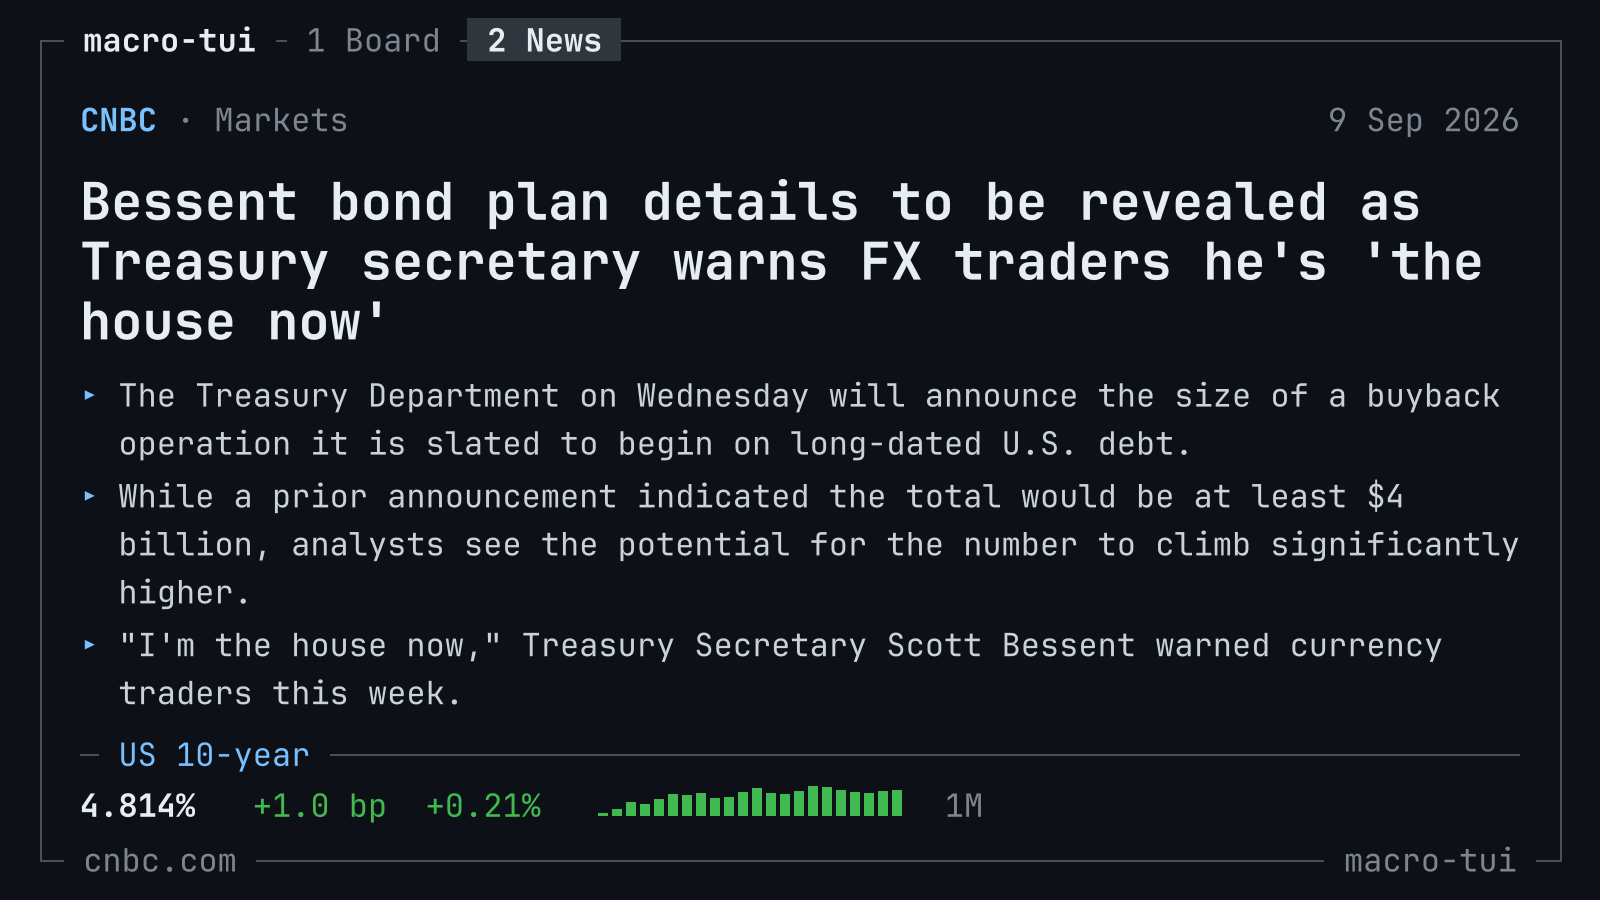
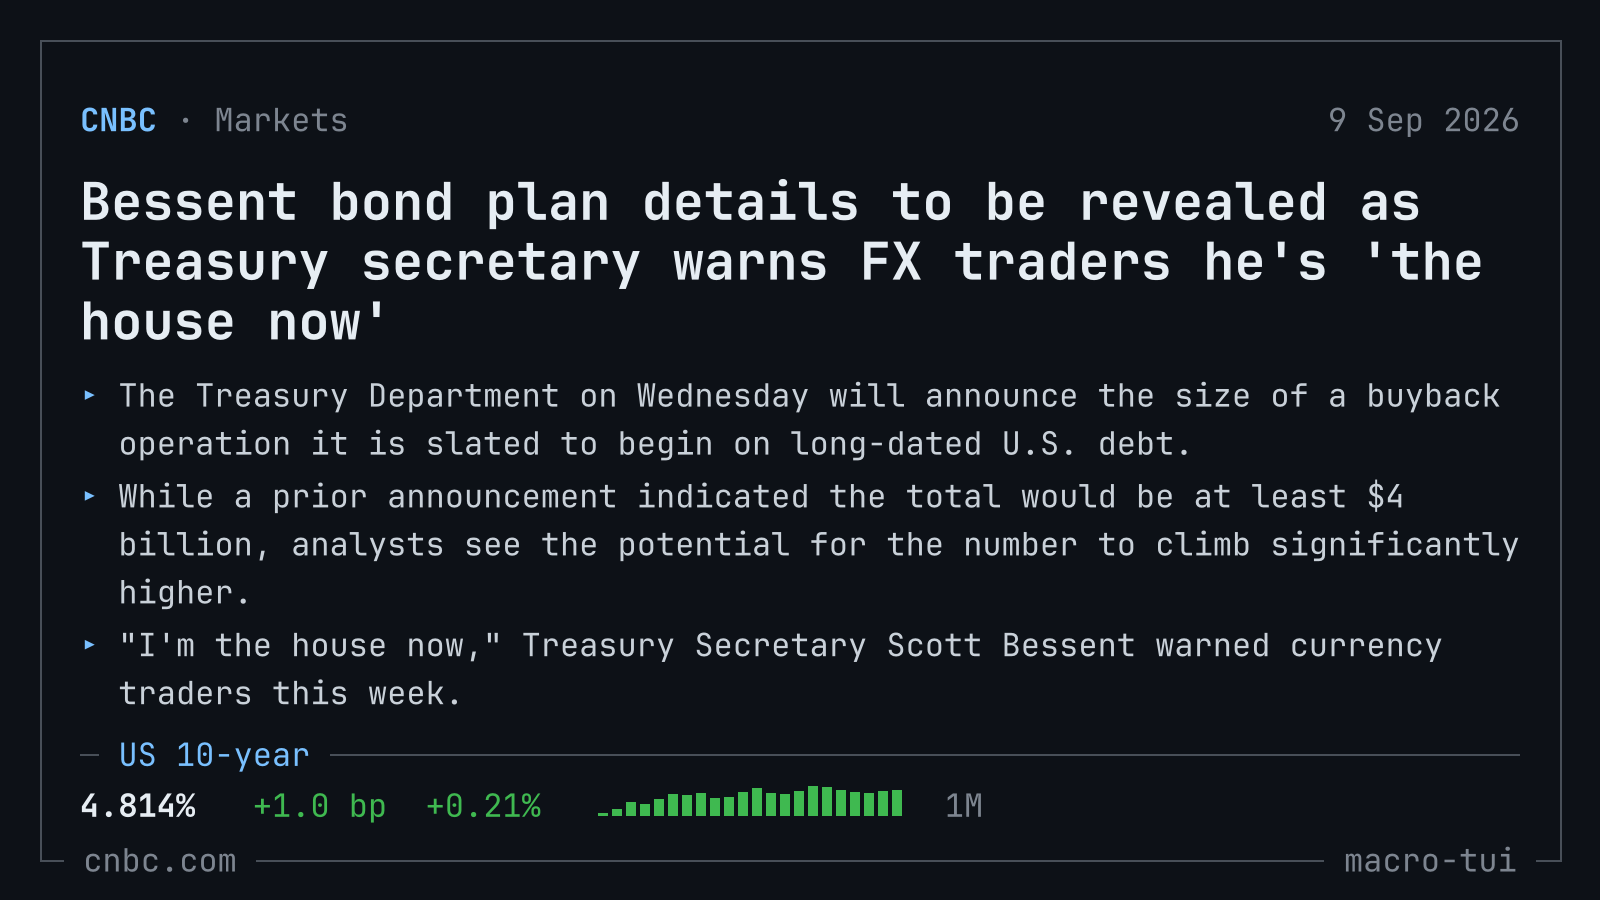
Take the title and tab bar off the share card's top edge
The frame reads as a terminal window on its own; the app's name already
sits in the bottom edge, and the tab bar was chrome for a screen the
card does not have.

Changed region(s): [[0.1875, 0.0, 0.4062, 0.0933], [0.0312, 0.0311, 0.1562, 0.0622]]

diff --git a/docs/index.html b/docs/index.html
@@ -214,7 +214,7 @@ footer a{color:var(--muted)}
     into a post, with a copy saved under <code>~/Pictures/macro-tui/</code>.
   </p>
   <figure class="shot" style="margin-top:0">
-    <img src="card.png" alt="A share card drawn as a terminal window running macro-tui: the tab bar in the frame, a CNBC Markets kicker and the date, a bold headline about the Treasury's bond buyback, three key points, and a ticker strip for the US 10-year yield with its level, move and a month of closes as bars." width="1600" height="900">
+    <img src="card.png" alt="A share card drawn as a terminal window running macro-tui: a plain frame, a CNBC Markets kicker and the date, a bold headline about the Treasury's bond buyback, three key points, and a ticker strip for the US 10-year yield with its level, move and a month of closes as bars." width="1600" height="900">
     <figcaption>The share card: a terminal window with the story, its key points, and the row it moves.</figcaption>
   </figure>
 </section>

diff --git a/src/card.rs b/src/card.rs
@@ -1,10 +1,10 @@
 //! The share card: a story rendered as an image, for pasting into a post.
 //!
 //! The card is drawn as a terminal window running macro-tui, so it is
-//! unmistakably from the app: a box-drawing frame with the tab bar in its top
-//! edge, a monospace face throughout, the headline in bold, CNBC's key points
-//! as a list, and, when the story mentions one of the board's instruments,
-//! that row's price, move and month of closes as a ticker strip. A timeline
+//! unmistakably from the app: a box-drawing frame, a monospace face
+//! throughout, the headline in bold, CNBC's key points as a list, and, when
+//! the story mentions one of the board's instruments, that row's price, move
+//! and month of closes as a ticker strip. A timeline
 //! shows an attached image at 16:9, so it is 1600 by 900. Everything is drawn
 //! here with fonts compiled into the binary, so the card looks the same on
 //! every machine and needs nothing installed.
@@ -57,7 +57,6 @@ const BORDER: Rgba<u8> = Rgba([72, 79, 88, 255]);
 const CYAN: Rgba<u8> = Rgba([121, 192, 255, 255]);
 const GREEN: Rgba<u8> = Rgba([63, 185, 80, 255]);
 const RED: Rgba<u8> = Rgba([248, 81, 73, 255]);
-const SELECTED: Rgba<u8> = Rgba([48, 54, 61, 255]);
 
 /// The instrument a story is about, as it reads on the board.
 #[derive(Debug, Clone, PartialEq)]
@@ -114,21 +113,6 @@ pub fn render(card: &Card) -> RgbaImage {
     let top = FRAME;
     let bottom = HEIGHT as f32 - FRAME;
     frame(&mut img, FRAME, top, WIDTH as f32 - FRAME, bottom);
-
-    // The window title and tab bar sit in the top edge, the way the app draws
-    // its own, with the News tab selected.
-    let mut x = FRAME + 24.0;
-    x = label(&mut img, &bold, x, top, " macro-tui ", TEXT, None);
-    x = label(&mut img, &regular, x + 12.0, top, " 1 Board ", MUTED, None);
-    label(
-        &mut img,
-        &bold,
-        x + 8.0,
-        top,
-        " 2 News ",
-        TEXT,
-        Some(SELECTED),
-    );
 
     // Kicker on the left, date on the right.
     let mut y = top + ROW * 1.9;
@@ -229,7 +213,6 @@ pub fn render(card: &Card) -> RgbaImage {
         bottom,
         &format!(" {} ", card.domain),
         MUTED,
-        None,
     );
     let brand = " macro-tui ";
     let w = measure(&regular, BASE, brand);
@@ -240,7 +223,6 @@ pub fn render(card: &Card) -> RgbaImage {
         bottom,
         brand,
         MUTED,
-        None,
     );
 
     img
@@ -265,7 +247,6 @@ fn draw_ticker(img: &mut RgbaImage, regular: &FontRef, bold: &FontRef, ticker: &
         rule_y,
         &format!(" {} ", ticker.name),
         CYAN,
-        None,
     );
 
     let y = rule_y + ROW * 1.3;
@@ -316,17 +297,8 @@ fn frame(img: &mut RgbaImage, left: f32, top: f32, right: f32, bottom: f32) {
 }
 
 /// Text sitting in a frame edge, the way a panel title does: the background
-/// is painted behind it so the line breaks around the words. Returns the x
-/// past the label.
-fn label(
-    img: &mut RgbaImage,
-    font: &FontRef,
-    x: f32,
-    line_y: f32,
-    text: &str,
-    colour: Rgba<u8>,
-    background: Option<Rgba<u8>>,
-) -> f32 {
+/// is painted behind it so the line breaks around the words.
+fn label(img: &mut RgbaImage, font: &FontRef, x: f32, line_y: f32, text: &str, colour: Rgba<u8>) {
     let w = measure(font, BASE, text);
     let h = ROW * 0.9;
     fill(
@@ -335,11 +307,10 @@ fn label(
         (line_y - h / 2.0) as u32,
         w.ceil() as u32,
         h as u32,
-        background.unwrap_or(BACKGROUND),
+        BACKGROUND,
     );
     // A baseline that centres the x-height on the line.
     draw(img, font, BASE, x, line_y + BASE * 0.36, text, colour);
-    x + w
 }
 
 /// The advance of one cell in the monospace face.

diff --git a/README.md b/README.md
@@ -66,8 +66,8 @@ The clipboard holds the image for as long as macro-tui runs; the file stays.
 
 ![A share card](docs/card.png)
 
-The card is drawn as a terminal window running macro-tui: the tab bar in the
-frame, the headline, the story's own key points (or the feed's one-line
+The card is drawn as a terminal window running macro-tui: a plain frame,
+the headline, the story's own key points (or the feed's one-line
 summary before the story has been opened), and, when the story mentions one
 of the board's instruments, that row's price, move and month of closes as a
 ticker strip. A story opened from a row is tied to that row when it mentions
